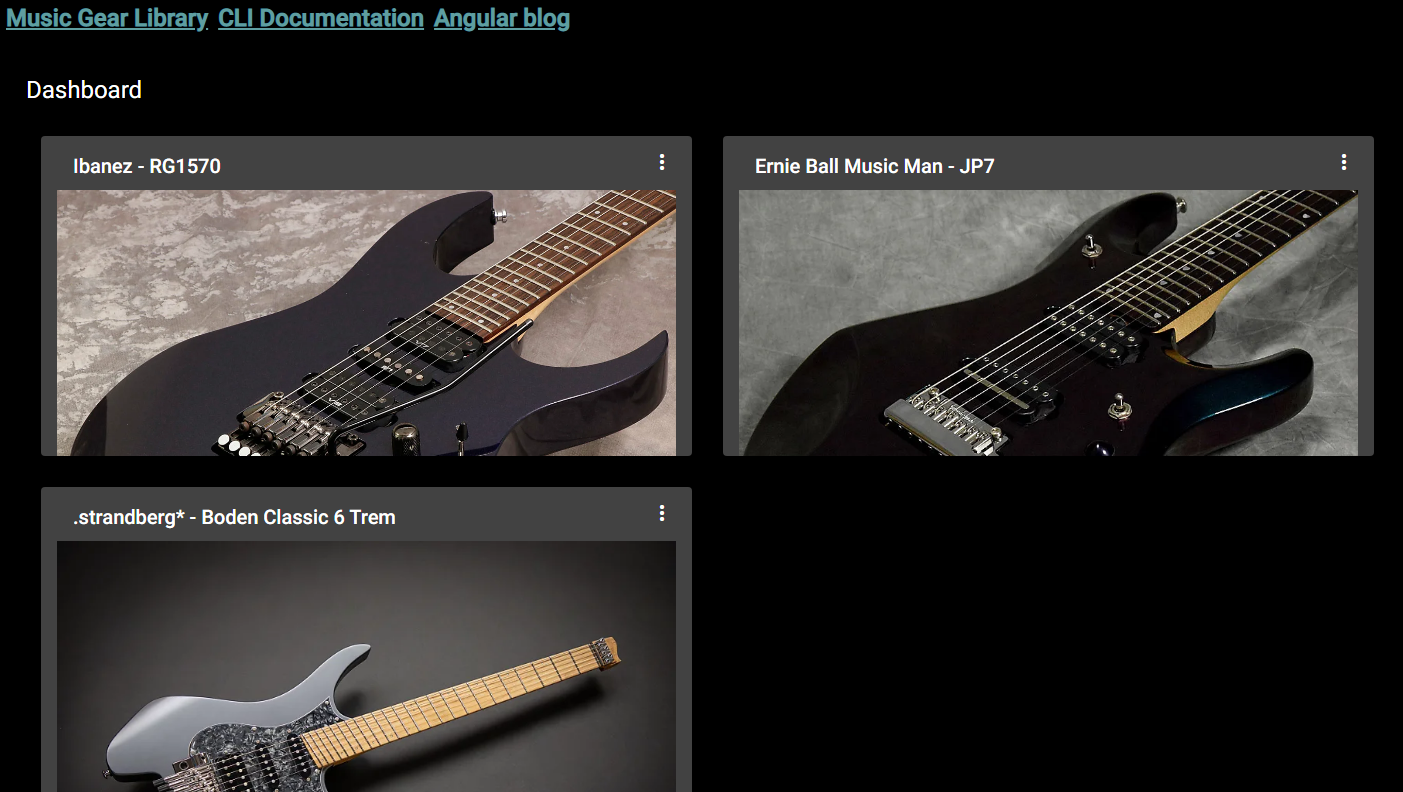
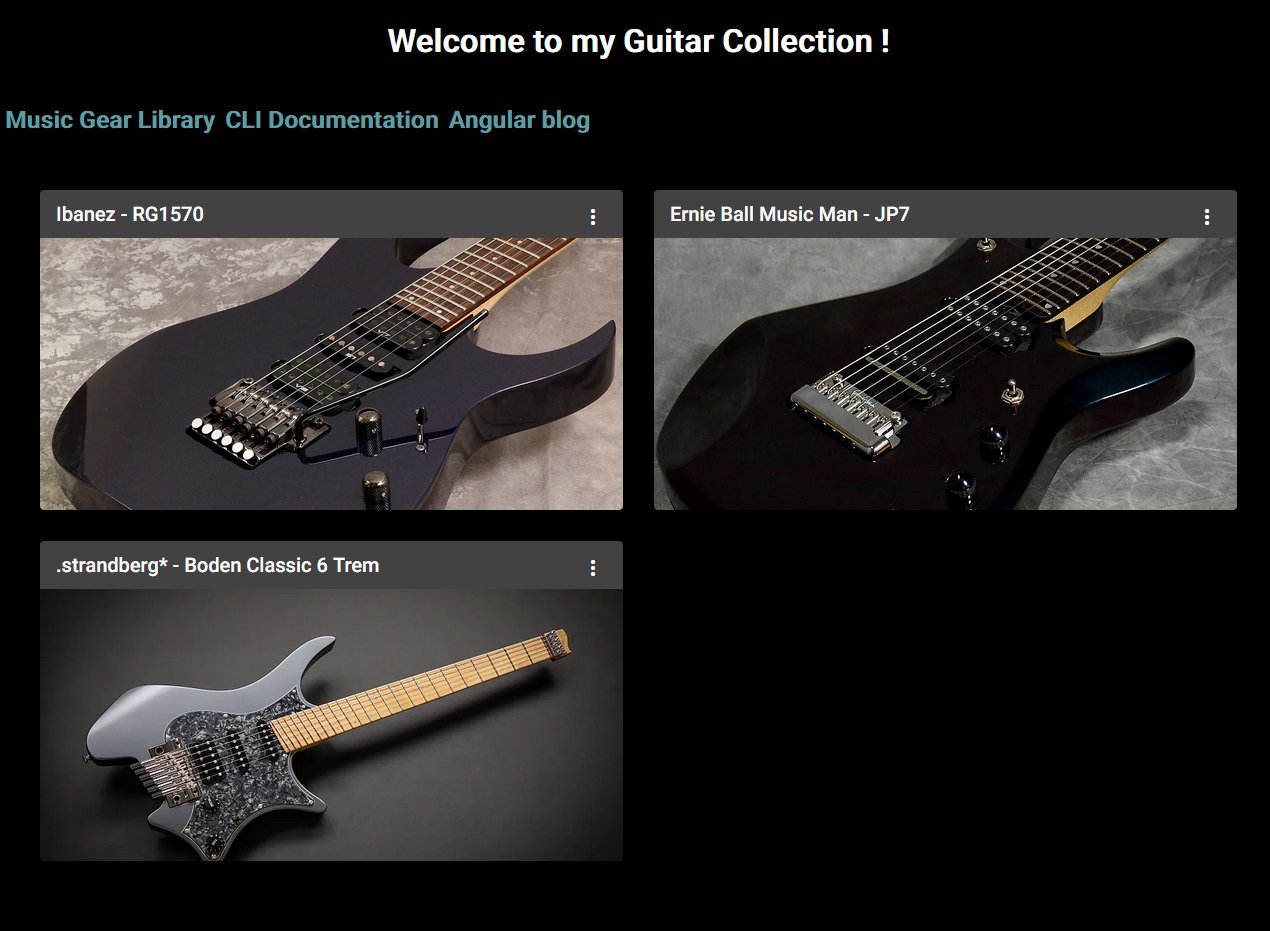
Display Cart and purchase link

diff --git a/src/styles.scss b/src/styles.scss
@@ -53,21 +53,40 @@ body {
     }
     .cart {
       position: relative;
-      z-index: 10;
       visibility: hidden;
-      height: 48px;
-      width: 48px;
-      margin-left: 50%;
-      margin-top: 25%;
+      height: 100px;
+      width: 100px;
+      margin-top: 10%;
+      opacity: 0.7;
+    }
+
+    .link {
+      position: relative;
+      visibility: hidden;
+      height: 100px;
+      width: 100px;
+      margin-left: 42%;
+      opacity: 0.8;
     }
   }
 
   .mat-card-content:hover {
     .gear {
-      opacity: 1;
+      opacity: 0.6;
     }
     .cart {
       visibility: visible;
     }
+    .link {
+      visibility: visible;
+    }
   }
+}
+
+.zindex-10 {
+  z-index: 10;
+}
+
+a {
+  text-decoration: unset;
 }

diff --git a/src/app/music-gear-library/music-gear-library.component.html b/src/app/music-gear-library/music-gear-library.component.html
@@ -25,7 +25,12 @@
         </mat-card-header>
         <mat-card-content class="dashboard-card-content">
           <div class="overlay">
-            <img class="cart" src="../assets/cart.png" />
+            <a href="https://reverb.com/"
+              ><img class="cart zindex-10" src="../assets/cart.png" />
+            </a>
+            <a href="https://reverb.com/">
+              <h2 class="link zindex-10">Buy online</h2>
+            </a>
             <img class="gear" [src]="card.imageUrl" />
           </div>
         </mat-card-content>
